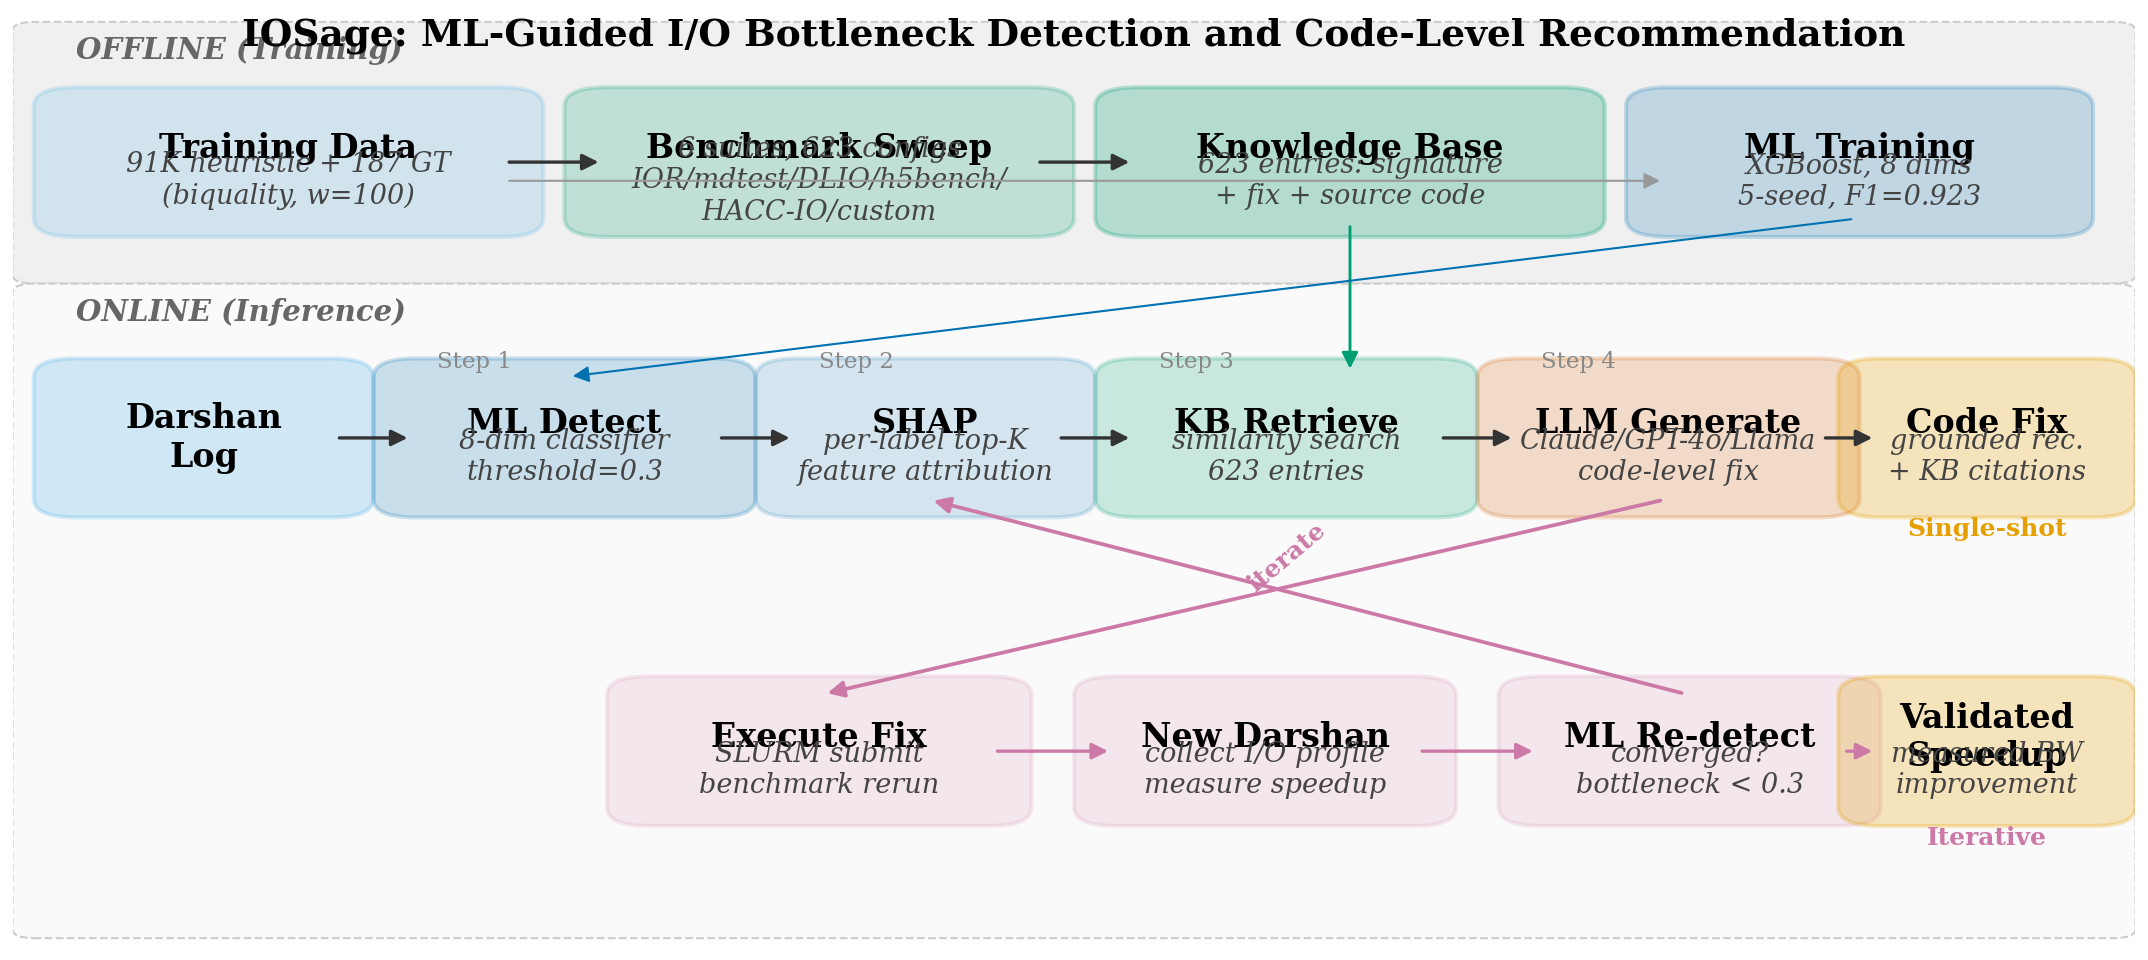
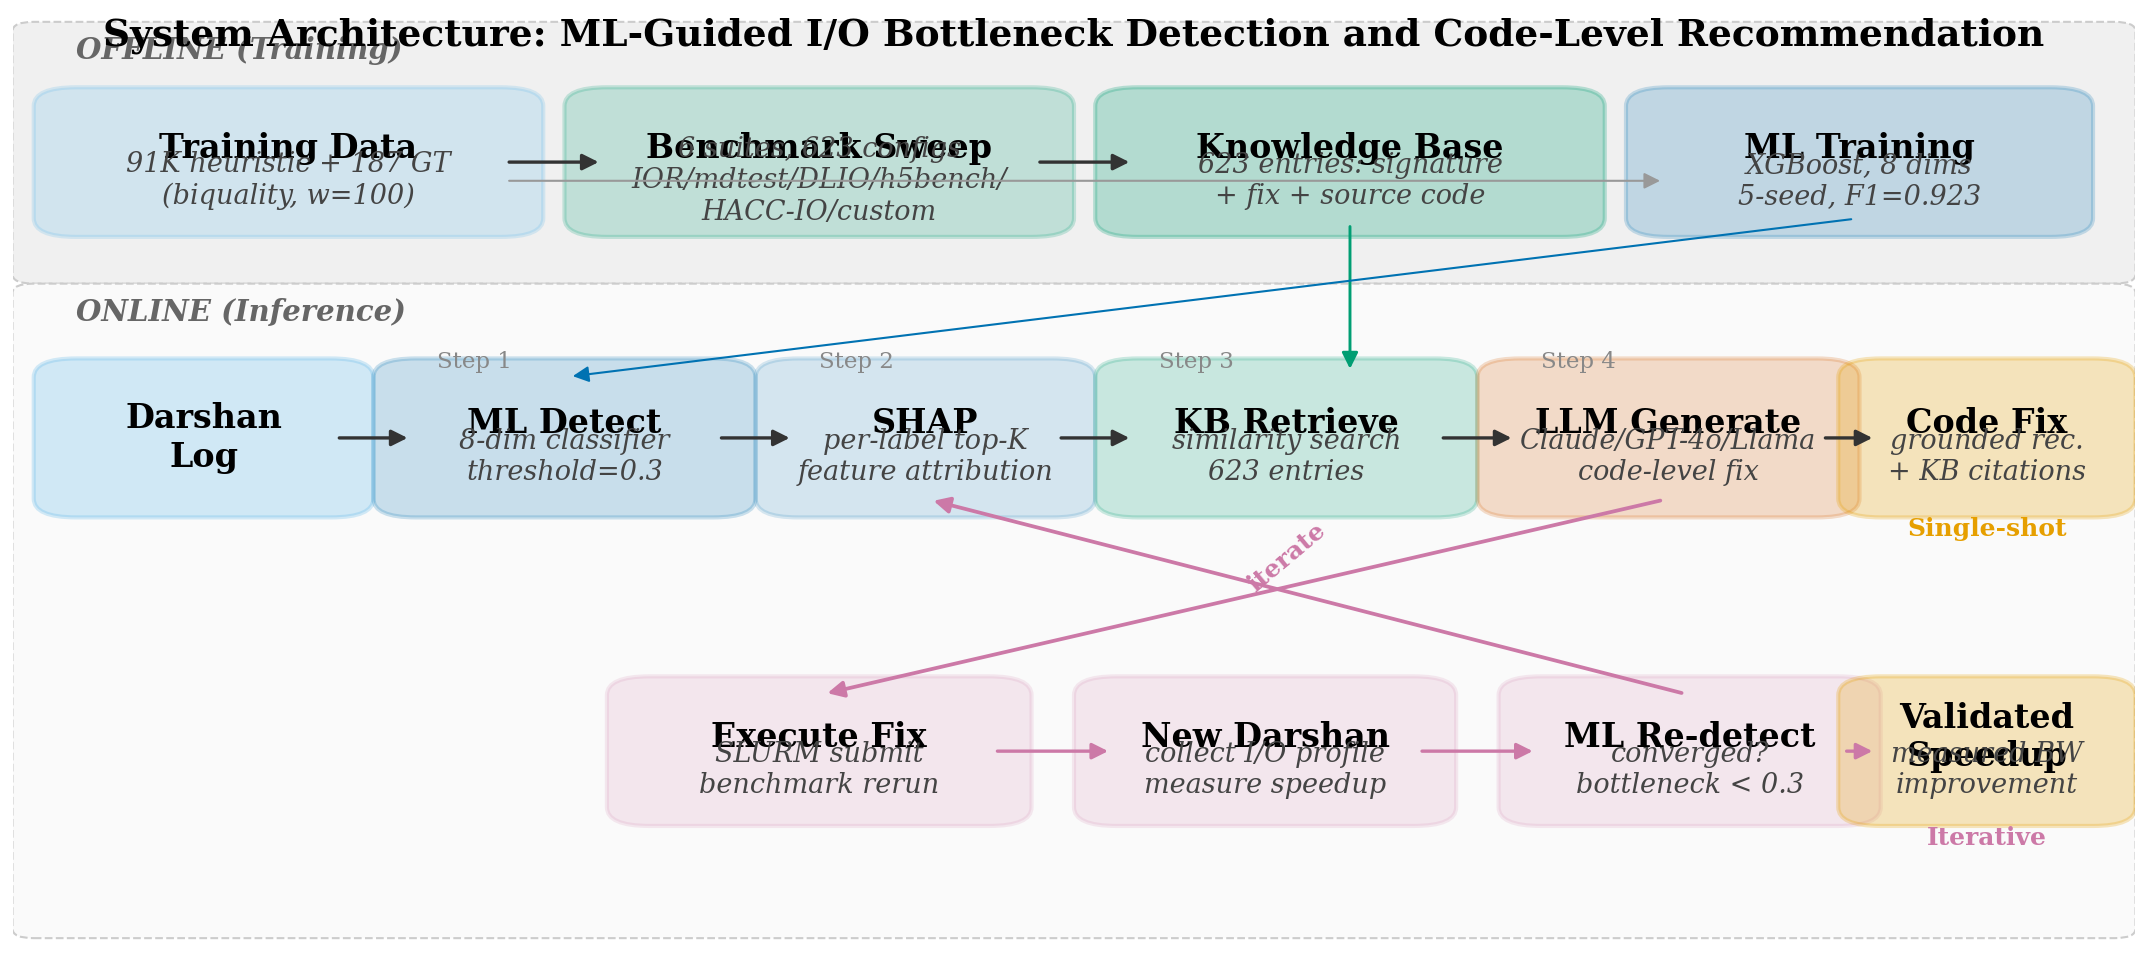
Remove system name from architecture figure title (caption handles it)

Changed region(s): [[0.0312, 0.0, 0.9669, 0.0625]]

diff --git a/scripts/generate_architecture_figure.py b/scripts/generate_architecture_figure.py
@@ -204,8 +204,8 @@ def main():
     for i, (x, y) in enumerate([(0.19, 0.62), (0.37, 0.62), (0.53, 0.62), (0.71, 0.62)], 1):
         ax.text(x + 0.01, y, f"Step {i}", fontsize=5.5, color="#888888")
 
-    # === Title ===
-    ax.text(0.50, 0.995, "IOSage: ML-Guided I/O Bottleneck Detection and Code-Level Recommendation",
+    # === Title (no system name — caption handles it) ===
+    ax.text(0.50, 0.995, "System Architecture: ML-Guided I/O Bottleneck Detection and Code-Level Recommendation",
             ha="center", va="top", fontsize=9, fontweight="bold")
 
     # Save
